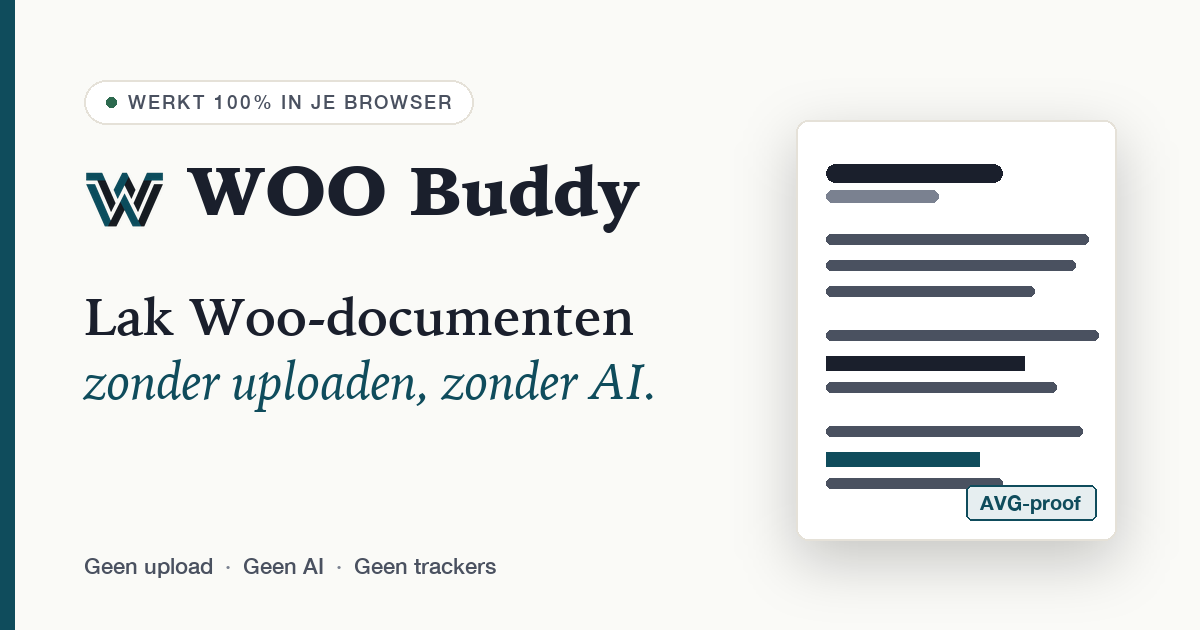
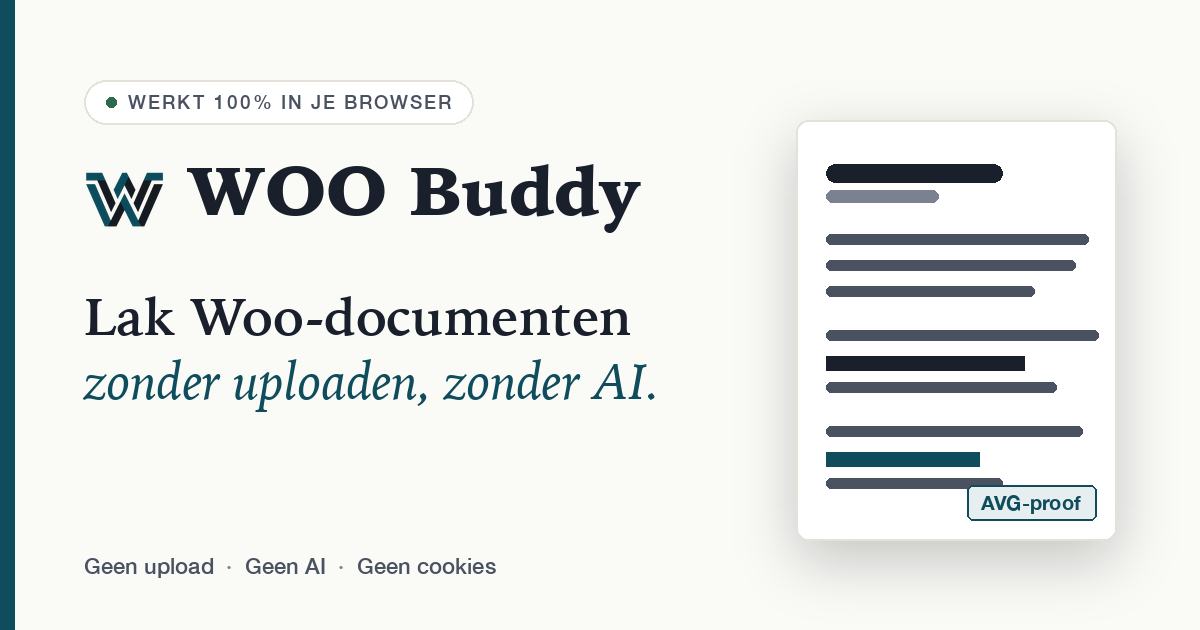
feat(analytics): enable Plausible in prod + soften trust copy (#25)
* chore(deploy): deliver PUBLIC_PLAUSIBLE_* env to frontend container

Wire the self-hosted Plausible endpoints (analytics.woobuddy.nl) into
the frontend service via runtime `environment:`. adapter-node reads
process env at request time, so `$env/dynamic/public` picks these up
without a rebuild. These are public URLs, not secrets — no .env needed.

* docs(landing): soften "geen trackers" copy now that Plausible is live

Self-hosted Plausible at analytics.woobuddy.nl is cookieless and
first-party, but counts pageviews — so a literal "geen trackers" claim
no longer holds. Swap to specific, still-honest language:

- Meta/OG/JSON-LD + Footer: "geen advertentietrackers"
- Hero chip: "Geen cookies, geen fingerprinting"
- og-image bullets: "Geen cookies" (fits the tight canvas row)

Regenerates og-image.png so social previews match. The cookies page
and "alleen functionele cookies" footer line remain accurate — Plausible
sets none.

---------

diff --git a/frontend/src/routes/+page.svelte b/frontend/src/routes/+page.svelte
@@ -10,7 +10,7 @@
 	<title>WOO Buddy — Woo-documenten lakken in je browser, zonder upload</title>
 	<meta
 		name="description"
-		content="WOO Buddy herkent BSN's, namen, adressen en andere persoonsgegevens in Woo-documenten en helpt je ze in een paar klikken weg te lakken. Draait volledig in je browser. Geen upload, geen AI, geen trackers."
+		content="WOO Buddy herkent BSN's, namen, adressen en andere persoonsgegevens in Woo-documenten en helpt je ze in een paar klikken weg te lakken. Draait volledig in je browser. Geen upload, geen AI, geen advertentietrackers."
 	/>
 	<link rel="canonical" href="https://woobuddy.nl/" />
 	<meta property="og:url" content="https://woobuddy.nl/" />
@@ -29,7 +29,7 @@
 				operatingSystem: 'Any (web browser)',
 				inLanguage: 'nl-NL',
 				description:
-					'WOO Buddy lakt Woo-documenten volledig in de browser. Herkent BSN\\u2019s, namen, adressen en andere persoonsgegevens. Geen upload, geen AI, geen trackers.',
+					'WOO Buddy lakt Woo-documenten volledig in de browser. Herkent BSN\\u2019s, namen, adressen en andere persoonsgegevens. Geen upload, geen AI, geen advertentietrackers.',
 				browserRequirements: 'Requires a modern browser with JavaScript enabled',
 				offers: {
 					'@type': 'Offer',

diff --git a/frontend/src/app.html b/frontend/src/app.html
@@ -25,7 +25,7 @@
 		<title>WOO Buddy — Woo-documenten lakken in je browser, zonder upload</title>
 		<meta
 			name="description"
-			content="WOO Buddy lakt Woo-documenten volledig in je browser. Herkent BSN's, namen, adressen en meer. Geen upload, geen AI, geen trackers. AVG-proof by design en open source."
+			content="WOO Buddy lakt Woo-documenten volledig in je browser. Herkent BSN's, namen, adressen en meer. Geen upload, geen AI, geen advertentietrackers. AVG-proof by design en open source."
 		/>
 		<meta
 			name="keywords"
@@ -48,7 +48,7 @@
 		/>
 		<meta
 			property="og:description"
-			content="Lak BSN's, namen en adressen in Woo-documenten zonder dat er één byte je laptop verlaat. Geen upload, geen AI, geen trackers."
+			content="Lak BSN's, namen en adressen in Woo-documenten zonder dat er één byte je laptop verlaat. Geen upload, geen AI, geen advertentietrackers."
 		/>
 		<meta property="og:image" content="https://woobuddy.nl/og-image.png" />
 		<meta property="og:image:width" content="1200" />

diff --git a/frontend/src/app.css b/frontend/src/app.css
@@ -6,7 +6,8 @@
  * Adjacent to Dutch civic design (NL Design System / GOV.UK), but visibly
  * independent. Sober, restrained, accessible. Deep teal primary instead of
  * Rijksoverheid blue. System fonts only — no third-party font requests, so
- * the "no trackers, no third parties" claim on the landing page is honest.
+ * the "cookieless, geen derden" claim on the landing page stays honest even
+ * with self-hosted Plausible in the mix.
  * --------------------------------------------------------------------------- */
 
 :root {

diff --git a/frontend/src/lib/components/landing/Footer.svelte b/frontend/src/lib/components/landing/Footer.svelte
@@ -9,7 +9,7 @@
 				<Logo size="small" />
 				<p class="mt-3 max-w-sm text-xs leading-relaxed text-ink-mute">
 					Privacyvriendelijk lakgereedschap voor Woo-documenten. Werkt in je browser. Geen
-					upload, geen AI, geen trackers.
+					upload, geen AI, geen advertentietrackers.
 				</p>
 				<p class="mt-3 max-w-sm text-xs leading-relaxed text-ink-mute">
 					WOO Buddy gebruikt alleen functionele cookies.

diff --git a/frontend/src/lib/components/landing/Hero.svelte b/frontend/src/lib/components/landing/Hero.svelte
@@ -8,7 +8,7 @@
 	const chips = [
 		{ icon: Lock, label: 'Geen byte verlaat je computer' },
 		{ icon: CircleSlash, label: 'Geen AI of LLM in de pijplijn' },
-		{ icon: EyeOff, label: 'Geen trackers, geen cookies' },
+		{ icon: EyeOff, label: 'Geen cookies, geen fingerprinting' },
 		...(cloudPickEnabled
 			? [{ icon: Cloud, label: 'Direct uit SharePoint of Drive — zonder tussenstop' }]
 			: [])

diff --git a/frontend/static/og-image.gen.py b/frontend/static/og-image.gen.py
@@ -223,7 +223,7 @@ def main() -> None:
 
     # --- Bottom bullet row -------------------------------------------------
     bullet_font = load_font(FONT_HELVETICA_NEUE, 22, index=HN_MEDIUM)
-    bullets = ["Geen upload", "Geen AI", "Geen trackers"]
+    bullets = ["Geen upload", "Geen AI", "Geen cookies"]
     bullet_y = HEIGHT - 78
     x_cursor = 84
     sep = "  ·  "
